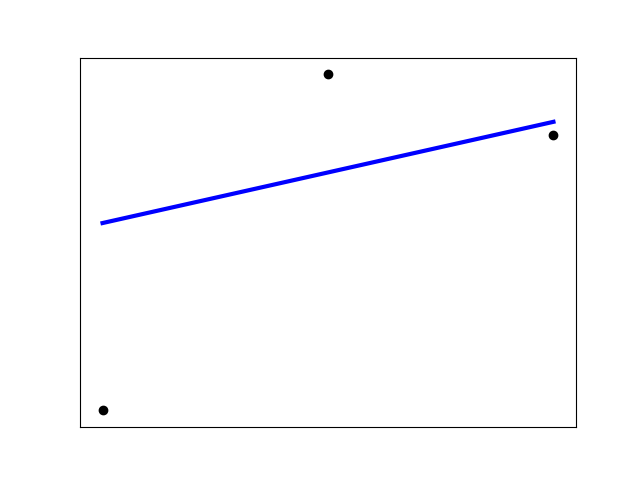
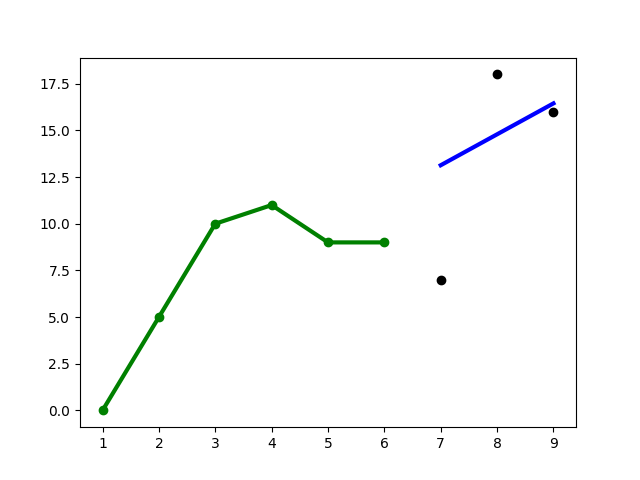
update python reg lin

diff --git a/Python/LinearReg.py b/Python/LinearReg.py
@@ -126,13 +126,16 @@ if __name__ == '__main__':
     # The coefficient of determination: 1 is perfect prediction
     print('Coefficient of determination: %.2f'
           % r2_score(current_casses_y_test, current_casses_y_pred))
-
+        
     # Plot outputs
+
+    plt.scatter(current_casses_X_train, current_casses_y_train,  color='green')
+    plt.plot(current_casses_X_train, current_casses_y_train, color='green', linewidth=3)
     plt.scatter(current_casses_X_test, current_casses_y_test,  color='black')
     plt.plot(current_casses_X_test, current_casses_y_pred, color='blue', linewidth=3)
 
-    plt.xticks(())
-    plt.yticks(())
+    # plt.xticks(())
+    # plt.yticks(())
 
     # plt.show()
 
